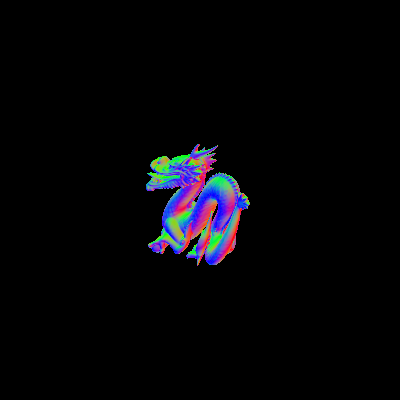
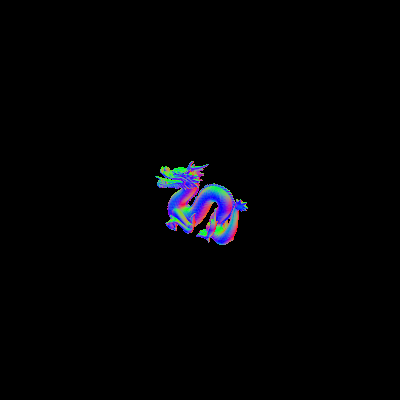
uniform scaling Fixes #1

Changed region(s): [[0.36, 0.36, 0.63, 0.66]]

diff --git a/index.js b/index.js
@@ -48,6 +48,13 @@ fs.readFile(process.argv[2], opt, function (err, data){
 
   console.log('\nThe mesh vertices can be scaled by:'.yellow);
   console.log(scaleVector);
+
+  // Uniform scaling
+  var mostScaling = Math.min.apply(null, scaleVector);
+  scaleVector = [mostScaling, mostScaling, mostScaling];
+
+  console.log('\nThe mesh will be scaled by:'.yellow);
+  console.log(scaleVector);
   console.log();
 
   transformVertices(mesh.vertices, translationVector, scaleVector);

diff --git a/README.md b/README.md
@@ -20,10 +20,13 @@ The mesh vertices can be translated by:
 The mesh vertices can be scaled by:
 [ 0.14191039777484496, 0.2012092676988702, 0.3173293561387364 ]
 
+The mesh will be scaled by:
+[ 0.14191039777484496, 0.14191039777484496, 0.14191039777484496 ]
+
 After transforming
 x: -1 <---> 1
-y: -1 <---> 1
-z: -1 <---> 1
+y: -0.7052875814210907 <---> 0.7052875814210907
+z: -0.44720223650786894 <---> 0.44720223650786894
 Saved transformed mesh to dragon2.obj
 ```
 
@@ -35,7 +38,8 @@ After:
 node index.js dragon2.obj dragon3.obj
 Before transforming
 x: -1 <---> 1
-y: -1 <---> 1
-z: -1 <---> 1
+y: -0.7052875814210907 <---> 0.7052875814210907
+z: -0.44720223650786894 <---> 0.44720223650786894
 no transforming needed
 ```
+
